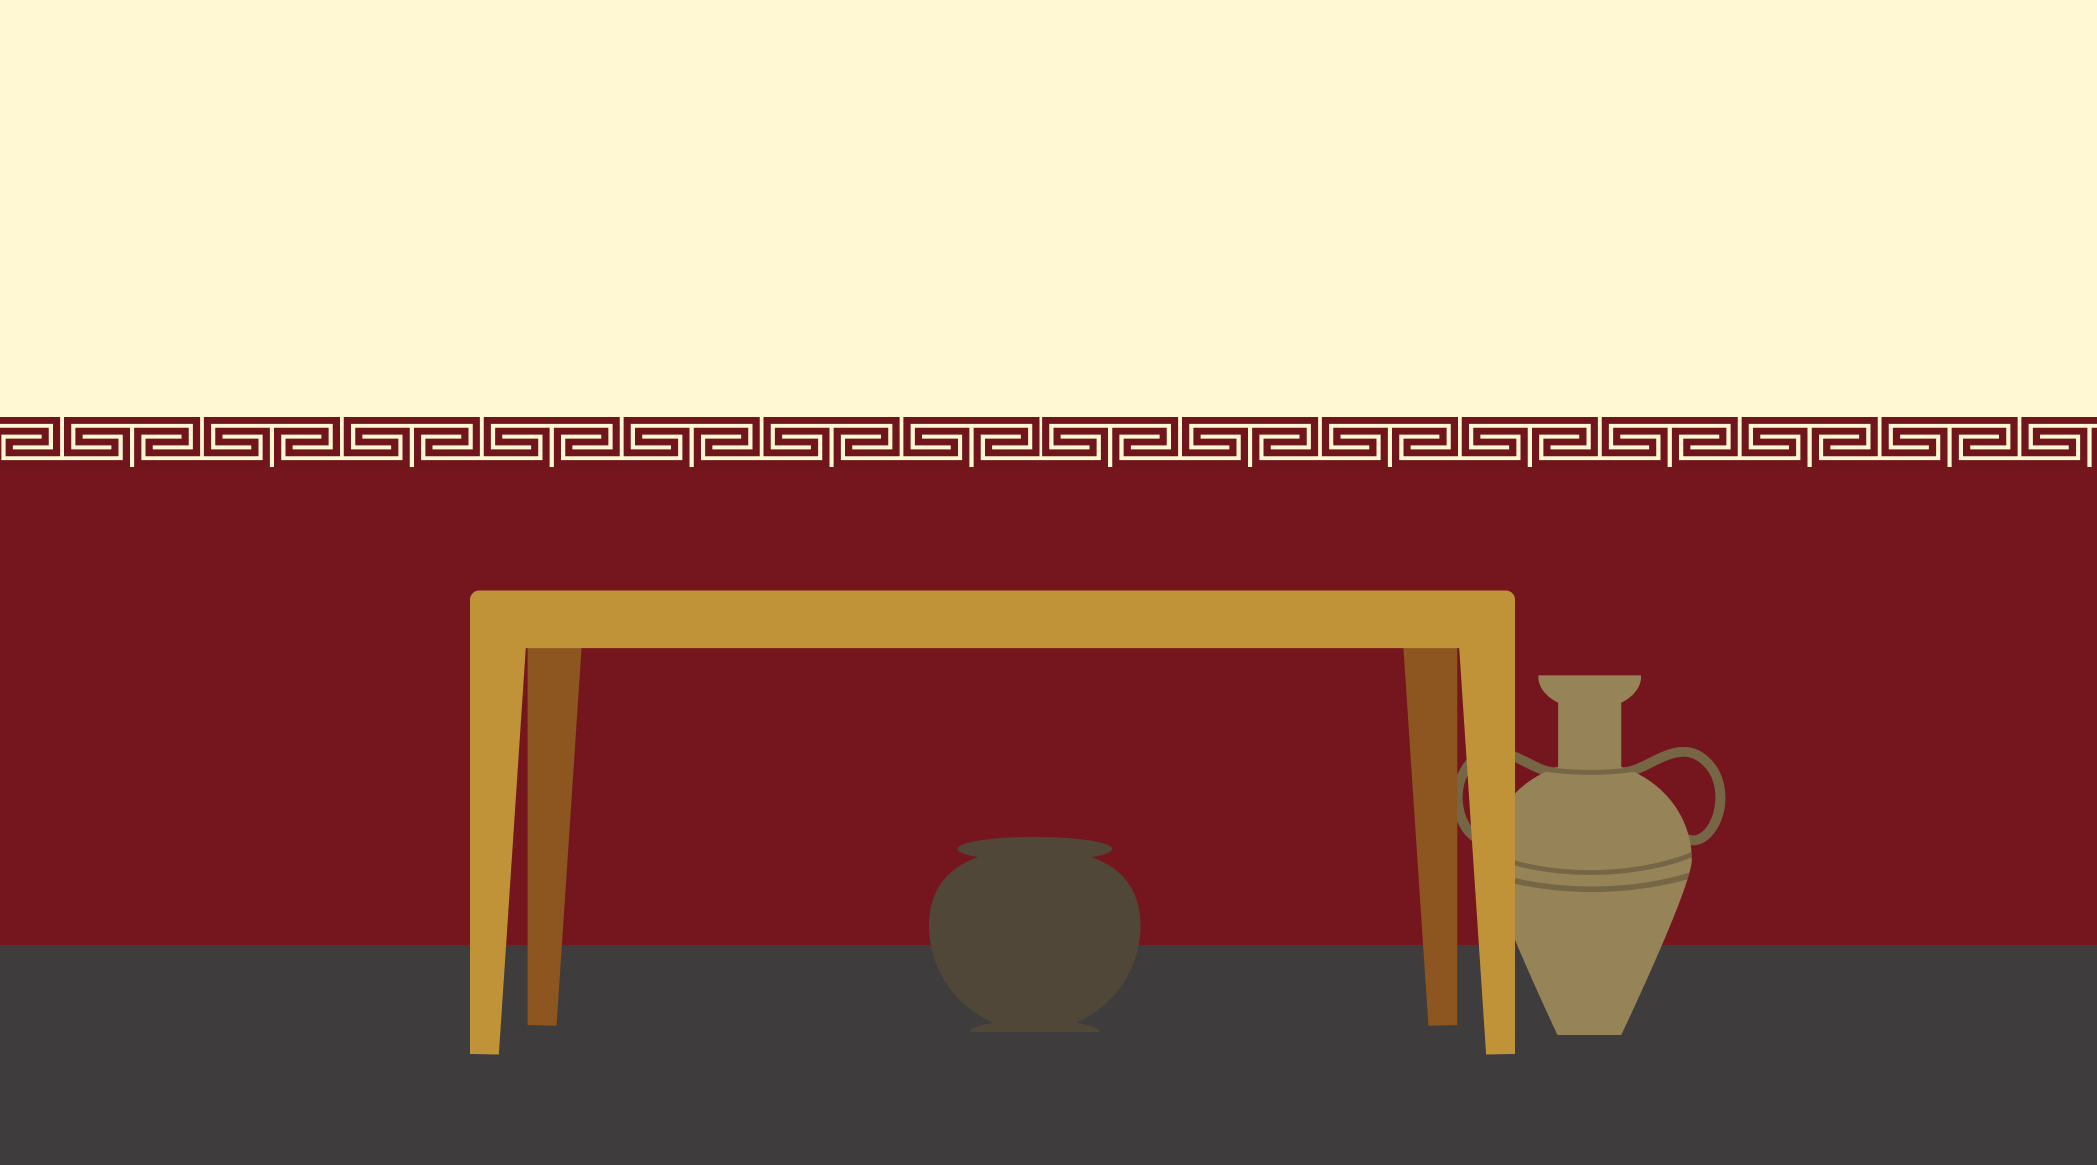
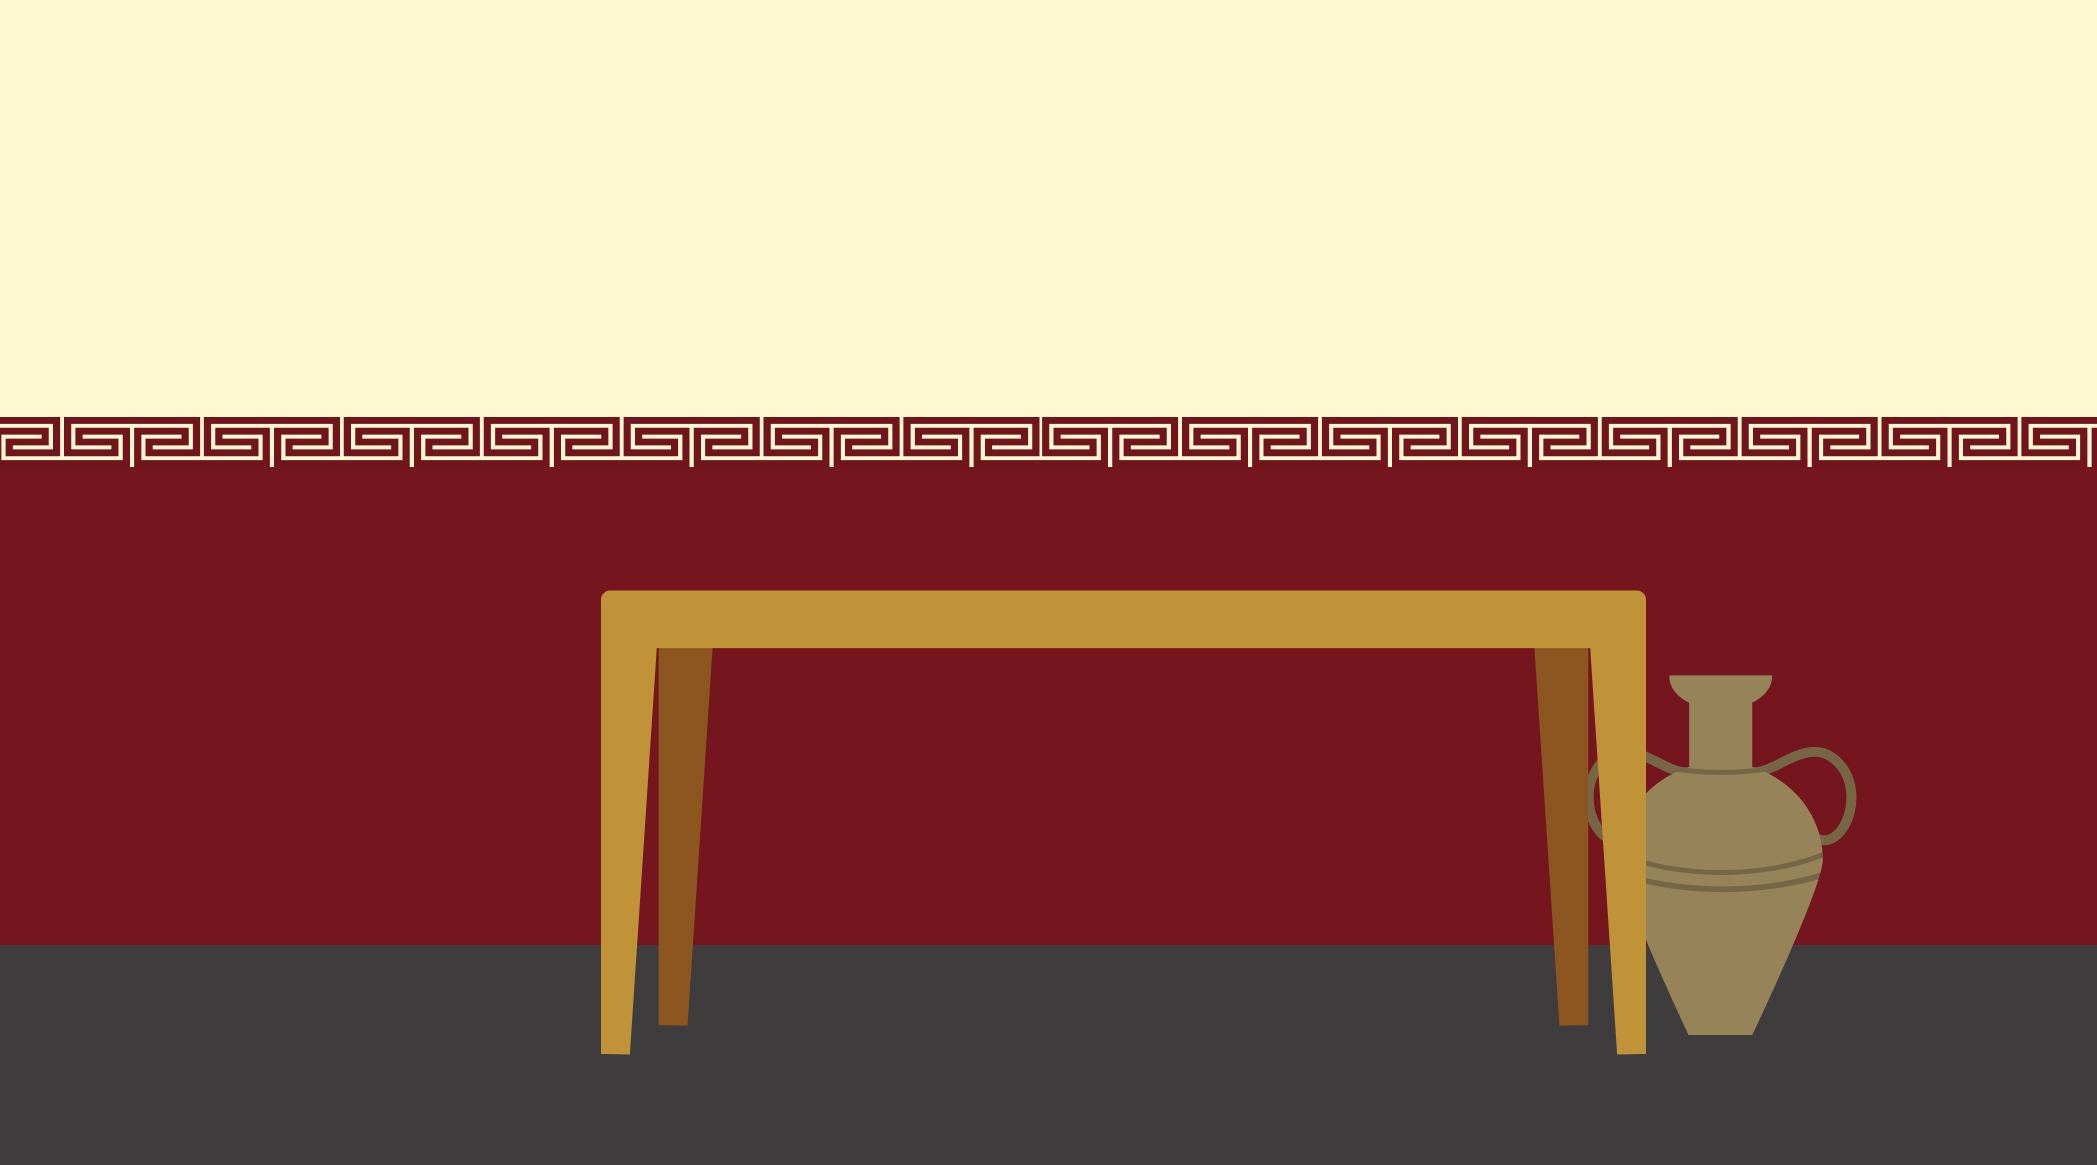
ajustement tablette et ordi

Changed region(s): [[0.6509, 0.4944, 0.8989, 0.8961], [0.217, 0.4944, 0.341, 0.927], [0.434, 0.7107, 0.5579, 0.8343]]

diff --git a/src/styles/app.scss b/src/styles/app.scss
@@ -122,9 +122,18 @@ html, body {
     .title {
         text-align: center;
         padding: 10px 0px 10px 0px;
+
+        &--perso {
+            text-align: left;
+        }
     }
+
     .link{
         margin: 10px 0px 10px 0px;
+    }
+
+    .text {
+        padding: 10px 0px 20px 0px;
     }
     
 }
@@ -254,6 +263,15 @@ html, body {
     align-items: flex-end;
 }
 
+.fin__button {
+    display: flex;
+
+    .link {
+        margin: 0px 20px 20px 0px;
+    }
+
+}
+
 
 // cacher
 .hide {
@@ -286,33 +304,33 @@ html, body {
     }
 }
 
-@media (min-width: 1000px) {
-    .chap__img{
-        width: 25%;
-    }
+@media (min-width: 700px) {
 
-    .chat {
-        left: 50%;
-        transform: translate(-50%);
-        margin: 0%;
+    .catch {    
+        top: 50%;
+        padding: 0px 10px 0px 10px;
+        left: 42%;
+        transform: translate(-42%, -50%);
     }
+}
 
-    .food1{
-        height: 40%;
-    }
-    
-    .food {
-        height: 50%;
+@media (min-height: 500px) and (orientation : landscape) {
+    .chap__img {
+        width: 20%;
     }
 
     .foods {
-        top: 47%;
+        top: 48%;
+        left: 57%;
     }
 
-    .chap__img--place {
-        left: -2%;
+    .food {
+        height: 35px;
+        padding: 0px 10px 0px 10px;
     }
 }
+
+
 
 // animation
 @keyframes logo {

diff --git a/src/jeu.html b/src/jeu.html
@@ -61,7 +61,7 @@
       <div class="chat">
         <h1 class="title title--perso">Marcus</h1>
         <p class="text">Tu vas m'aider  à trouver les aliments que je pourrais prendre comme jentaculum.</p>
-        <button class="link next">Commencer</button>
+        <button class="link next">Continuer</button>
       </div>
     </section> 
 
@@ -87,7 +87,7 @@
         <div class="chat">
           <h1 class="title title--perso">Marcus</h1>
           <p class="text">Tu as fini le scénario, on se voit bientot pour la suite</p>
-          <ul>
+          <ul class="fin__button">
             <li> <a class="link" href="jeu.html">Recommencer le mvp</a></li>
             <li> <a class="link" href="index.html">accueil</a></li>
           </ul>
